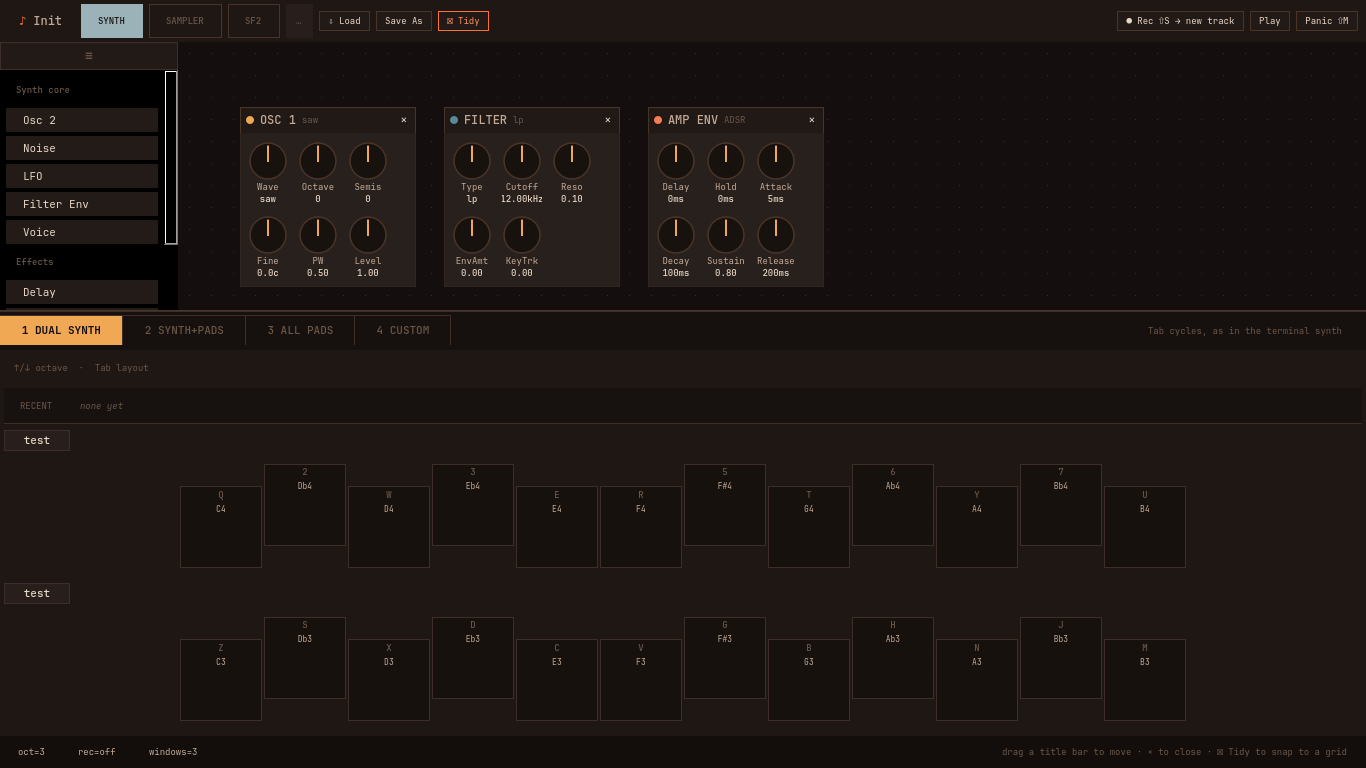
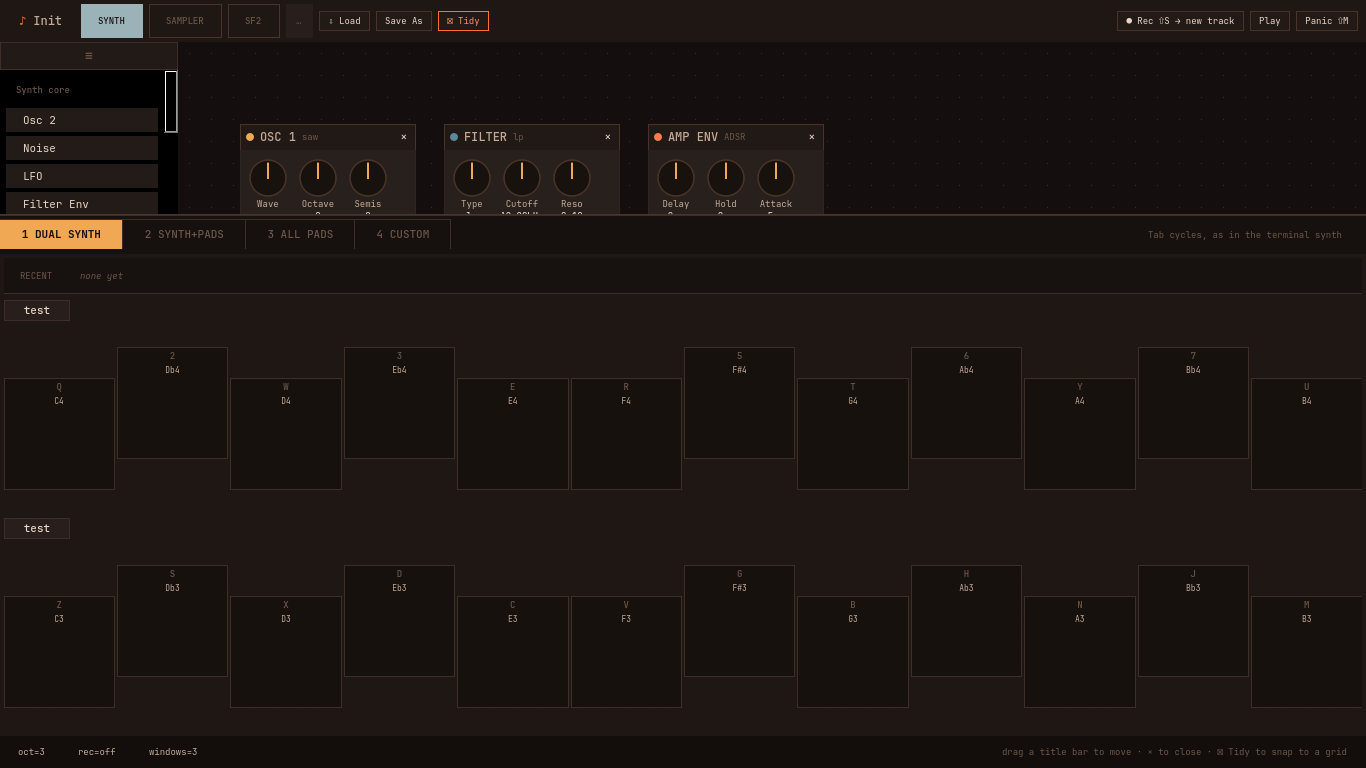
Give the footer its full range: header rows to full canvas (#196)
The user's answer on the range question: "i want it to go so far down
you only see the upper footer rows and so far up that it fills the
module canvas." The first pass had neither end.

Down. KeyBoxRow.minimumSizeHint() was the same value as sizeHint(), so
the key rows could grow but never shrink, and the reference box size was
a hard floor for the whole footer. Only the vertical minimum is given up
(MIN_HEIGHT, a few px rather than 0, so the last pixel of the drag isn't
jumpy and the splitter's floor stays unambiguous); the width still
carries the real horizontal minimum. _geometry()'s `max(1.0, ...)` scale
clamp goes with it -- it was correct only because minimumSizeHint()
guaranteed the row was never handed less than its reference height, and
that guarantee is now deliberately gone, so a clamped row would overflow
the space it was actually given instead of drawing smaller. The footer's
floor drops from 285px to 151px: the layout switcher and the recents
rail, which is exactly "only the upper footer rows".

Up. _FOOTER_MAX_HEIGHT was 640, an arbitrary cap that bound before
anything meaningful did. It is now larger than any real window, so the
only thing that stops the footer is _CANVAS_MIN_HEIGHT -- a real
decision about how much canvas to leave, now a 24px sliver. On a 1366x768
window the range is 151..608 of 632, i.e. essentially the whole window.

Three tests moved rather than broke, each for a real reason:
[…]

diff --git a/src/notecolor/gui/synth_keyboard.py b/src/notecolor/gui/synth_keyboard.py
@@ -385,14 +385,37 @@ class KeyBoxRow(QtWidgets.QWidget):
         self.updateGeometry()
         self.update()
 
-    def sizeHint(self):
-        return self.minimumSizeHint()
+    #: The smallest height a key row may be squeezed to before it stops
+    #: being drawn at all. Not zero: a row that can reach exactly 0 makes
+    #: the splitter's floor ambiguous and the last pixel of the drag
+    #: jumpy. Small enough that "only the upper footer rows are visible"
+    #: is reachable by dragging (#196, the user's own description of how
+    #: far down the footer should go).
+    MIN_HEIGHT = 6
 
-    def minimumSizeHint(self):
+    def sizeHint(self):
+        """The row's *natural* size -- the reference box size it is drawn
+        at when nothing is squeezing it."""
         count = max(1, len(self._boxes))
         width = count * (self.BOX_SIZE + self.GAP) - self.GAP
         height = self.BOX_SIZE + self.STAGGER + 2 * self.MARGIN
         return QtCore.QSize(width, height)
+
+    def minimumSizeHint(self):
+        """Deliberately *not* `sizeHint()` any more (#196).
+
+        It used to be the same value, which made the reference box size a
+        hard floor for the whole footer: the key rows could grow but never
+        shrink, so the footer could not be dragged down past them. The
+        user asked for it to "go so far down you only see the upper footer
+        rows", and this is the number that was preventing it.
+
+        Width still carries the real horizontal minimum; only the vertical
+        floor is given up.
+        """
+        count = max(1, len(self._boxes))
+        width = count * (self.BOX_SIZE + self.GAP) - self.GAP
+        return QtCore.QSize(width, self.MIN_HEIGHT)
 
     def _geometry(self):
         """(box_side, gap, stagger, margin, x_offset, y_offset) actually
@@ -409,9 +432,16 @@ class KeyBoxRow(QtWidgets.QWidget):
         gap = float(self.GAP)
 
         ref_height = self.BOX_SIZE + self.STAGGER + 2 * self.MARGIN
-        scale_h = max(1.0, self.height() / ref_height) if ref_height else 1.0
-        scale_w = max(1.0, (self.width() - (count - 1) * gap) / (count * self.BOX_SIZE))
-        scale = min(scale_h, scale_w)
+        # No `max(1.0, ...)` floor on the scale any more (#196). It was
+        # there because `minimumSizeHint()` guaranteed the row was never
+        # handed less than the reference height, so a scale below 1 could
+        # only mean a layout bug. That guarantee is deliberately gone --
+        # the footer is now draggable down past the keys -- so the row has
+        # to be able to draw itself smaller than its reference instead of
+        # overflowing the space it was actually given.
+        scale_h = (self.height() / ref_height) if ref_height else 1.0
+        scale_w = (self.width() - (count - 1) * gap) / (count * self.BOX_SIZE)
+        scale = max(0.0, min(scale_h, scale_w))
 
         box_side = self.BOX_SIZE * scale
         stagger = self.STAGGER * scale

diff --git a/tests/test_synth_keyboard.py b/tests/test_synth_keyboard.py
@@ -291,16 +291,22 @@ def test_pad_row_boxes_never_marked_black(app):
 
 # -- KeyBoxRow: taller fixed height + is_black storage -----------------------
 
-def test_key_box_row_minimum_height_grew_to_fit_the_stagger(app):
+def test_key_box_row_natural_height_fits_the_stagger(app):
     # Ticket #184 bug #2: KeyBoxRow no longer pins itself to a fixed
     # pixel size (it resizes to fill whatever room its layout gives it,
-    # via `_geometry()` at paint time) -- but it still reports a real
-    # minimum, with equal top/bottom margin so the black+white contour
-    # centers instead of sitting flush top/bottom.
+    # via `_geometry()` at paint time) -- but its *natural* size still
+    # allows equal top/bottom margin, so the black+white contour centers
+    # instead of sitting flush top/bottom.
+    #
+    # This reads `sizeHint()`, not `minimumSizeHint()`. The two were the
+    # same number until #196, when the vertical minimum was given up so
+    # the footer could be dragged down past the keys; the natural size
+    # this test is actually about is unchanged.
     assert sk.KeyBoxRow.BOX_SIZE + sk.KeyBoxRow.STAGGER > sk.KeyBoxRow.BOX_SIZE
     row = sk.KeyBoxRow()
     expected = sk.KeyBoxRow.BOX_SIZE + sk.KeyBoxRow.STAGGER + 2 * sk.KeyBoxRow.MARGIN
-    assert row.minimumSizeHint().height() == expected
+    assert row.sizeHint().height() == expected
+    assert row.minimumSizeHint().height() < expected
     assert row.sizePolicy().verticalPolicy() == QtWidgets.QSizePolicy.Expanding
     assert row.sizePolicy().horizontalPolicy() == QtWidgets.QSizePolicy.Expanding
 
@@ -989,8 +995,11 @@ def test_key_box_drop_assigns_just_that_key(app):
     # Boxes are centered horizontally (ticket #186), so the first box no
     # longer starts at x=0 -- ask `_geometry()` for the real offset rather
     # than assuming one.
-    _box_side, _gap, _stagger, _margin, x_offset, _y_offset = key_box_row._geometry()
-    box_x = x_offset + 0.5 * sk.KeyBoxRow.BOX_SIZE  # inside the first box
+    box_side, _gap, _stagger, _margin, x_offset, _y_offset = key_box_row._geometry()
+    # Half a *drawn* box in, not half a `BOX_SIZE`: since #196 the row
+    # scales below its reference size when squeezed, so the reference
+    # width can overshoot the first box entirely.
+    box_x = x_offset + 0.5 * box_side  # inside the first box
 
     key_box_row.dropEvent(_FakeDropEvent("Beta", x=box_x))
 

diff --git a/src/notecolor/gui/synth_view.py b/src/notecolor/gui/synth_view.py
@@ -179,13 +179,21 @@ STATUS_TIMER_MS = 200
 #: (ticket #184) -- big enough that dragging for more room never feels
 #: capped in ordinary use, without handing the whole window to the
 #: keyboard band.
-_FOOTER_MAX_HEIGHT = 640
+#: Ceiling for the footer. Deliberately far larger than any real window:
+#: the user asked for the footer to go "so far up that it fills the module
+#: canvas", so the binding limit should be `_CANVAS_MIN_HEIGHT` below --
+#: an actual decision about how much canvas to leave -- and not a
+#: leftover constant. `_FooterSplitter.effective_ceiling()` takes the
+#: smaller of the two, so on every real window this one never binds.
+_FOOTER_MAX_HEIGHT = 1 << 16
 
 #: How little vertical room the canvas row (drawer + module canvas) may be
-#: squeezed to, so the footer has somewhere to grow into. Its natural
-#: `minimumSizeHint()` is the drawer's full height, which left the footer
-#: no travel at all (#196).
-_CANVAS_MIN_HEIGHT = 120
+#: squeezed to. This is what actually stops the footer, and it is a
+#: deliberately small sliver: "fills the module canvas" means the canvas
+#: keeps just enough to stay grabbable, not a comfortable working height.
+#: (Its natural `minimumSizeHint()` is the drawer's full 356px, which left
+#: the footer no travel at all -- the original #196 bug.)
+_CANVAS_MIN_HEIGHT = 24
 
 
 #: Same dot spacing `synth_workspace.Canvas.paintEvent` uses for its own

diff --git a/tests/test_synth_view.py b/tests/test_synth_view.py
@@ -500,15 +500,19 @@ def test_real_interactive_drag_tracks_smoothly_above_the_minimum(app):
     QtWidgets.QApplication.processEvents()
     handle = view.splitter.handle(1)
 
-    travel = view.splitter.effective_ceiling() - view.splitter.floor
-    assert travel >= 90, f"no room to test a drag in: {travel}px"
-    grow = int(travel * 0.6)
+    # Measured from where the footer actually starts, which is its
+    # natural `sizeHint()` -- above the floor since #196 gave the key
+    # rows a vertical minimum well below their reference size.
+    start = footer.height()
+    headroom = view.splitter.effective_ceiling() - start
+    assert headroom >= 90, f"no room to grow into: {headroom}px"
+    grow = int(headroom * 0.6)
     shrink = grow // 3
 
     _drag_handle(handle, 400, [-grow])
     grown = footer.height()
     assert footer.isVisible() is True
-    assert abs(grown - (view.splitter.floor + grow)) <= 15
+    assert abs(grown - (start + grow)) <= 15
 
     _drag_handle(handle, 250, [shrink])
 
